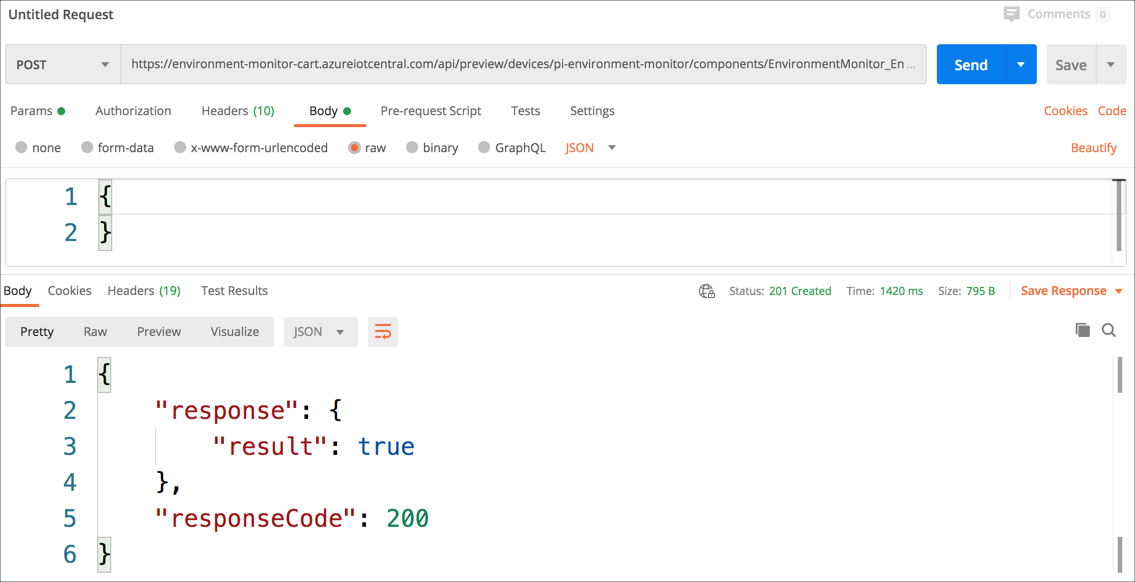
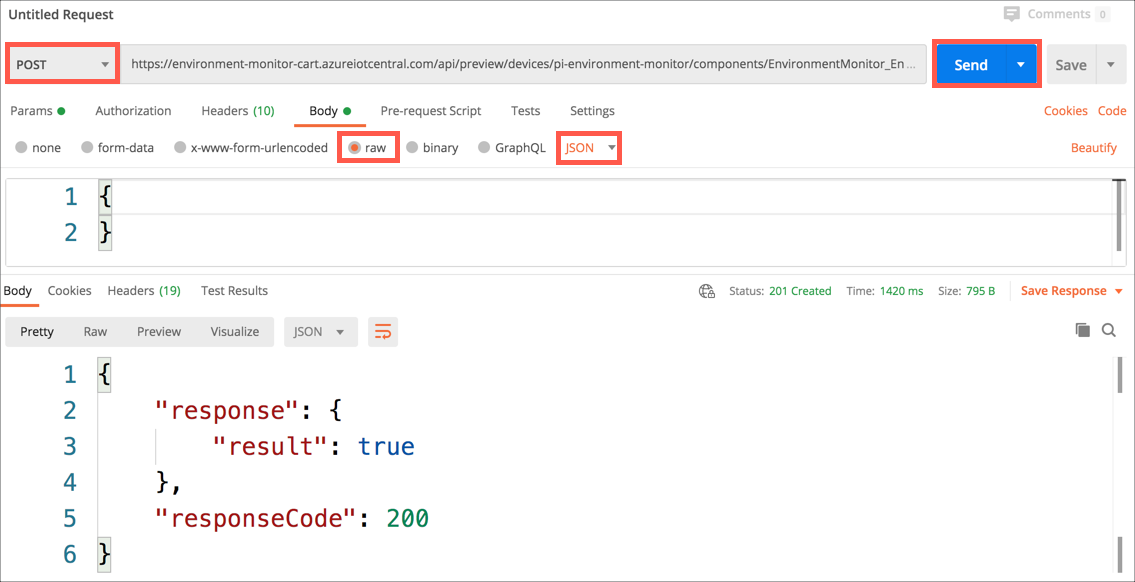
Adding back Postman

diff --git a/labs/iot/environment-monitor/steps/rules-command.md b/labs/iot/environment-monitor/steps/rules-command.md
@@ -108,14 +108,36 @@ https://<app_name>.azureiotcentral.com/api/preview/devices/pi-environment-monito
     * Replace `<app_name>` with the name of your IoT Central app. You can get this from the URL that you use to access IoT central
     * Replace `<encoded_api_token>` with the API token copied earlier, with all the `&` characters replaced with `%26` and space replaced with `%20`
 
-You can test this webhook using a web browser such as Microsoft Edge or Safari.
+You can test this webhook using Postman, a free tool for testing REST APIs.
 
-1. Paste the URL into your browser and press enter to load it
+1. Download Postman from this link:
 
-You should see a response in the browser:
+    [getpostman.com/downloads](http://getpostman.com/downloads)
+
+    Once downloaded, install the app and launch it.
+
+1. From Postman, select *File->New Tab*
+
+1. In the *Untitled Request* tab, set the following:
+
+    * Set the request type to `POST`
+    * Enter the encoded command URL into the *Request URL* box
+    * In the *Body* tab, set the type to `raw` and `JSON`
+    * Set the body to be `{}`
+
+1. Select the **Send** button
+
+    ![The postman command call](../images/postman-command-call.png)
+
+The request will run and you will see result in the *Body* tab of the response section.
 
 ```json
-{"value":[{"response":{"result":true},"responseCode":200}]}
+{
+    "response": {
+        "result": true
+    },
+    "responseCode": 200
+}
 ```
 
 You should also see the Too Loud command called in the output of the Python app, and either the LED light up for 10 seconds, or a message output to the console.
